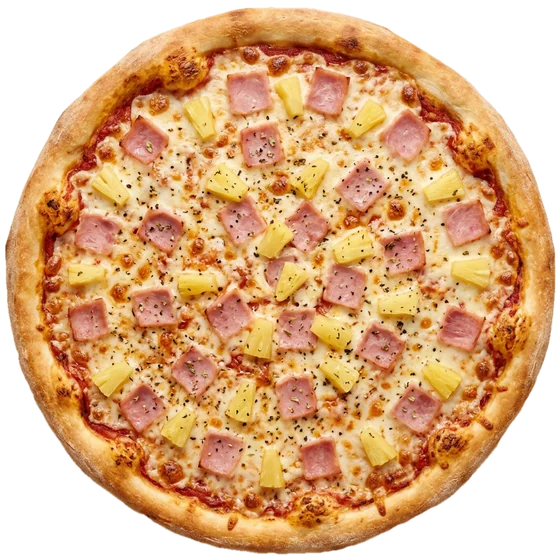
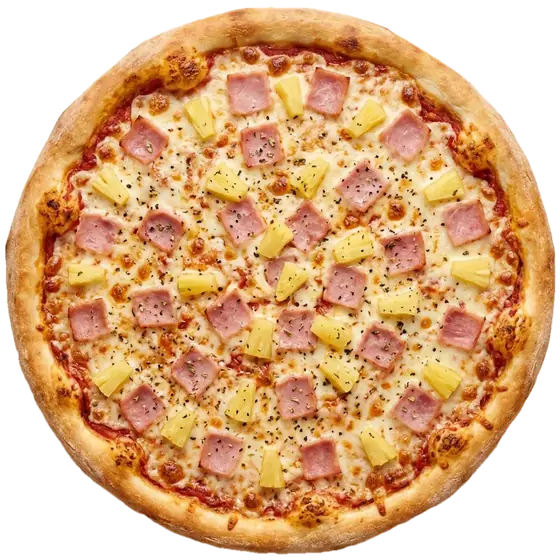
Desempenho no celular e ajustes do Gire a pizza
- Vídeo do topo só começa depois que a página carrega e fica ociosa: a
  capa aparece primeiro e a página não trava no início.
- Gire a pizza: só a primeira pizza vem no HTML; as outras carregam
  quando a seção se aproxima. Tamanho certo em sizes, versão de 720px
  e fotos menores (560px ~66 KB).
- Pizza das páginas internas: versão leve no celular, pré-carregada, e
  sem sombra (que repintava a cada quadro) no celular.
- Links do WhatsApp por api.whatsapp.com: o wa.me quebrava o emoji.
- Gire a pizza no celular: pizza acima da barra Ligar/Pedir agora,
  maior, e o nome atual visível no arco.

Lighthouse celular: home 53 → 96, cardápio 87 → 99, contato 93 → 97.

Claude-Session: https://claude.ai/code/session_011kDrMJaAZNAZoUQYzLhH1f

diff --git a/src/scripts/pizza.ts b/src/scripts/pizza.ts
@@ -25,6 +25,7 @@ export function initPizza(opts: { reduced: boolean }) {
   let switching = false;
   let paused = false;
   let looping = false;
+  let ready = false;
 
   function play(v: HTMLVideoElement) {
     v.play().catch(() => {
@@ -56,7 +57,7 @@ export function initPizza(opts: { reduced: boolean }) {
   }
 
   function start() {
-    if (paused || !visible || document.hidden) return;
+    if (!ready || paused || !visible || document.hidden) return;
     play(videos[front]);
     if (!looping) {
       looping = true;
@@ -101,5 +102,16 @@ export function initPizza(opts: { reduced: boolean }) {
     if (document.hidden) stop();
     else start();
   });
-  start();
+  // Start only after the page has loaded and gone quiet: the poster image is what people see
+  // first, and the video decoding must not compete with it or with the first interactions
+  const begin = () => {
+    const go = () => {
+      ready = true;
+      start();
+    };
+    if ('requestIdleCallback' in window) requestIdleCallback(go, { timeout: 2000 });
+    else setTimeout(go, 600);
+  };
+  if (document.readyState === 'complete') begin();
+  else window.addEventListener('load', begin, { once: true });
 }

diff --git a/src/styles/global.css b/src/styles/global.css
@@ -1653,6 +1653,10 @@ main:focus {
     right: -22vw;
     width: 58vw;
     opacity: 0.28;
+    filter: none; /* faint on phones: the shadow is not seen, and it costs a repaint every frame */
+  }
+  .page-hero__pizza-img {
+    background-image: url('/img/pizza-top-sm.webp');
   }
 }
 
@@ -3498,6 +3502,7 @@ textarea.input {
 
 @media (max-width: 899px) {
   .wheel {
+    --anchor: -125deg; /* higher on the arc, so the current name stays on narrow screens */
     height: calc(100vh + var(--n) * 40vh);
     height: calc(100svh + var(--n) * 40svh);
   }
@@ -3517,7 +3522,9 @@ textarea.input {
     min-height: 46px;
   }
   .wheel__dial {
-    --d: min(86vw, 46vh);
+    --d: min(92vw, 50vh);
+    /* sits above the quick-actions bar (Ligar / Pedir agora) instead of under it */
+    bottom: calc(72px + env(safe-area-inset-bottom));
   }
   .wheel__names button {
     font-size: 0.875rem;

diff --git a/src/scripts/flavor-wheel.ts b/src/scripts/flavor-wheel.ts
@@ -29,6 +29,20 @@ export function initFlavorWheel(opts: { reduced: boolean; scrollTo?: (y: number)
   const nameBtns = [...section.querySelectorAll<HTMLButtonElement>('[data-wheel-go]')];
   const pizzas = [...section.querySelectorAll<HTMLImageElement>('[data-wheel-pizza]')];
   const N = flavors.length;
+
+  // Only the first pizza is in the HTML; the others load when the section gets close
+  const io = new IntersectionObserver(
+    ([e]) => {
+      if (!e.isIntersecting) return;
+      io.disconnect();
+      pizzas.forEach((img) => {
+        if (img.dataset.srcset) img.srcset = img.dataset.srcset;
+        if (img.dataset.src) img.src = img.dataset.src;
+      });
+    },
+    { rootMargin: '100% 0px' }
+  );
+  io.observe(section);
   let current = 0;
   let timer = 0;
 

diff --git a/src/lib/format.ts b/src/lib/format.ts
@@ -18,8 +18,9 @@ export const popupTimes = () => `das ${hourLabel(site.popup.open)} às ${hourLab
 export const mailto = (subject?: string) =>
   `mailto:${site.contact.email}${subject ? `?subject=${encodeURIComponent(subject)}` : ''}`;
 
+/** api.whatsapp.com (not wa.me): the wa.me redirect breaks emojis in the message */
 export function whatsappLink(message = `Olá! Quero fazer um pedido na ${site.name}.`) {
-  return `https://wa.me/${site.contact.whatsapp}?text=${encodeURIComponent(message)}`;
+  return `https://api.whatsapp.com/send?phone=${site.contact.whatsapp}&text=${encodeURIComponent(message)}`;
 }
 
 export const socialLinks = () =>

diff --git a/src/scripts/cart.ts b/src/scripts/cart.ts
@@ -259,7 +259,7 @@ export function initCart(opts: { reduced: boolean }) {
       `*Pagamento:* ${pay}${pay === 'Dinheiro' && get('change') ? ` (troco para ${get('change')})` : ''}`,
       ...(get('notes') ? [`*Observações:* ${get('notes')}`] : []),
     ].join('\n');
-    window.open(`https://wa.me/${wa}?text=${encodeURIComponent(msg)}`, '_blank', 'noopener');
+    window.open(`https://api.whatsapp.com/send?phone=${wa}&text=${encodeURIComponent(msg)}`, '_blank', 'noopener');
   });
 
   render();
